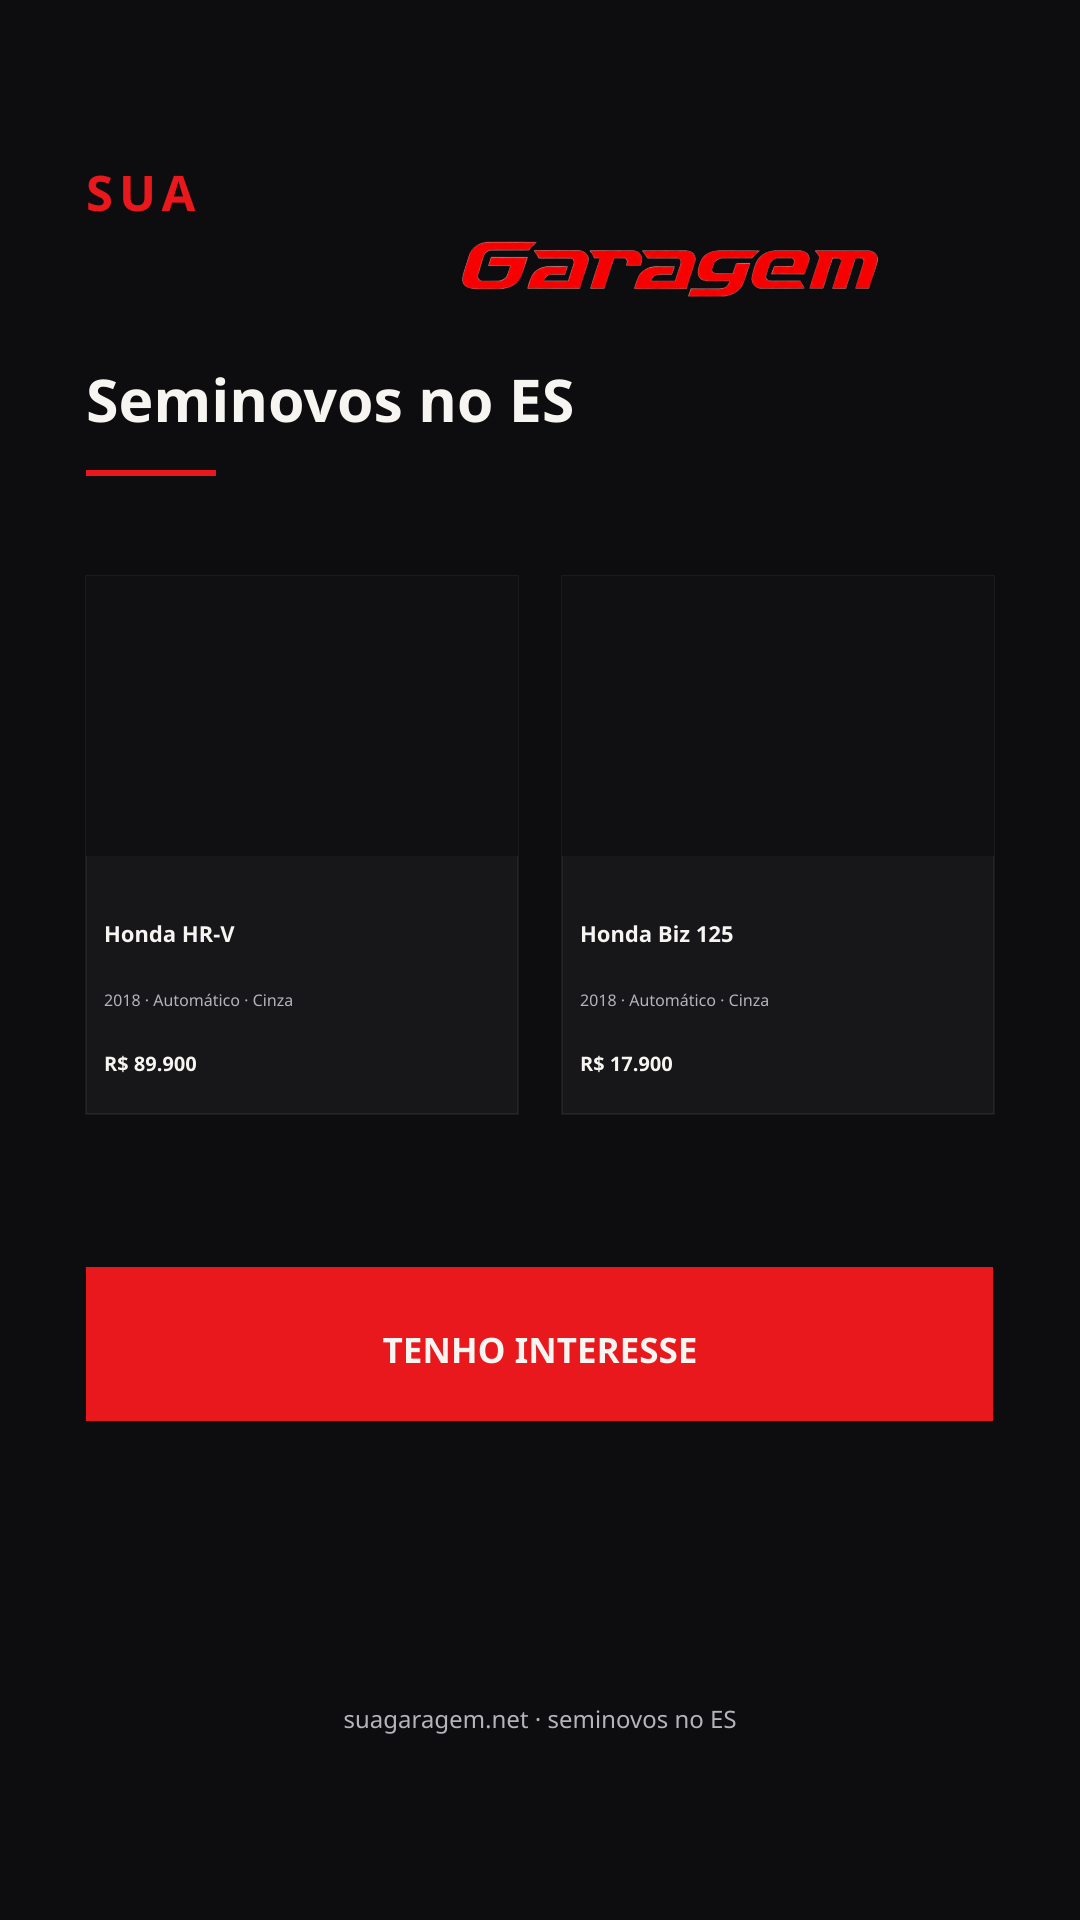
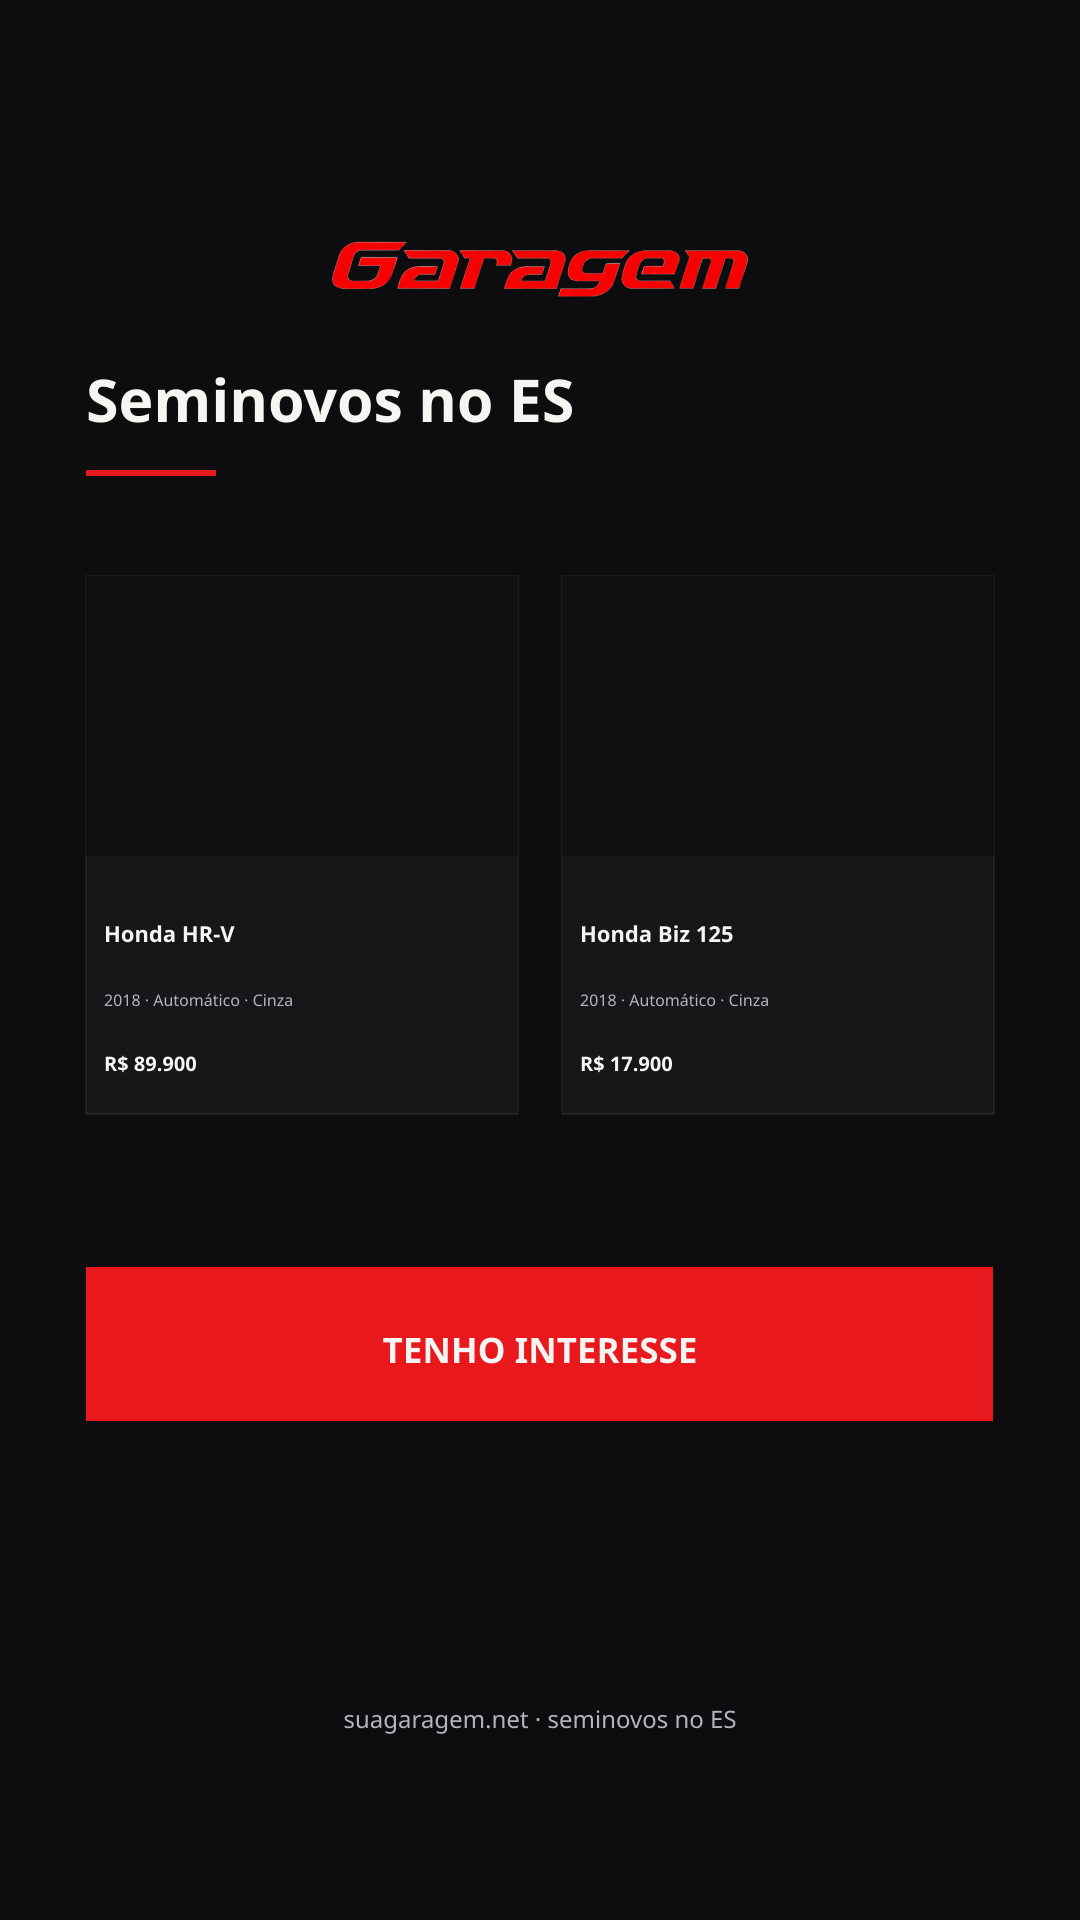
fix(brand): remove visual SUA prefix from the Garagem wordmark
Lucas rejected the red “Sua”/“SUA” label next to the logo. SiteWordmark now shows only the existing Garagem mark. Titles, aria-labels, and metadata stay “Sua Garagem”. PWA store screenshots no longer draw SUA.

Changed region(s): [[0.3056, 0.125, 0.825, 0.1562], [0.0611, 0.0938, 0.1833, 0.125]]

diff --git a/src/components/site/SiteWordmark.tsx b/src/components/site/SiteWordmark.tsx
@@ -4,32 +4,24 @@ type WordmarkSize = "header" | "hero" | "footer" | "splash";
 
 const SIZE: Record<
   WordmarkSize,
-  { wrap: string; sua: string; img: string; width: number; height: number }
+  { img: string; width: number; height: number }
 > = {
   header: {
-    wrap: "gap-1.5",
-    sua: "text-[15px] tracking-tight sm:text-base lg:text-lg",
-    img: "h-9 w-auto max-w-[min(38vw,132px)] object-contain object-left sm:max-w-[140px] lg:h-10 lg:max-w-[148px] xl:max-w-[168px]",
+    img: "h-9 w-auto max-w-[min(46vw,160px)] object-contain object-left sm:max-w-[168px] lg:h-10 lg:max-w-[168px] xl:max-w-[196px]",
     width: 280,
     height: 50,
   },
   hero: {
-    wrap: "flex-col gap-1 sm:gap-1.5",
-    sua: "text-lg tracking-[0.28em] sm:text-xl lg:text-2xl",
     img: "h-auto w-[min(70vw,260px)] sm:w-[min(58vw,360px)] lg:w-[380px]",
     width: 480,
     height: 86,
   },
   footer: {
-    wrap: "flex-col items-center gap-1.5 lg:items-start",
-    sua: "text-sm tracking-[0.28em]",
     img: "h-11 w-auto sm:h-12",
     width: 320,
     height: 58,
   },
   splash: {
-    wrap: "flex-col gap-1",
-    sua: "text-base tracking-[0.28em] sm:text-lg",
     img: "brand-splash-logo",
     width: 480,
     height: 86,
@@ -37,8 +29,8 @@ const SIZE: Record<
 };
 
 /**
- * Marca comercial visível: "Sua" + wordmark Garagem = Sua Garagem.
- * O arquivo do logo só desenha "Garagem"; o prefixo fecha o nome do site.
+ * Wordmark visível: só o logo Garagem. O nome comercial "Sua Garagem"
+ * fica em aria-label, titles e metadados — sem prefixo "SUA" no chrome.
  */
 export function SiteWordmark({
   size = "header",
@@ -52,15 +44,9 @@ export function SiteWordmark({
   const look = SIZE[size];
   return (
     <span
-      className={`inline-flex items-center ${look.wrap} ${className}`}
+      className={`inline-flex items-center ${className}`.trim()}
       aria-label={site.name}
     >
-      <span
-        className={`font-display font-bold uppercase text-brand ${look.sua}`}
-        aria-hidden="true"
-      >
-        Sua
-      </span>
       {/* eslint-disable-next-line @next/next/no-img-element -- wordmark estático, sem cota /_next/image */}
       <img
         src="/branding/logo-wordmark.webp"
